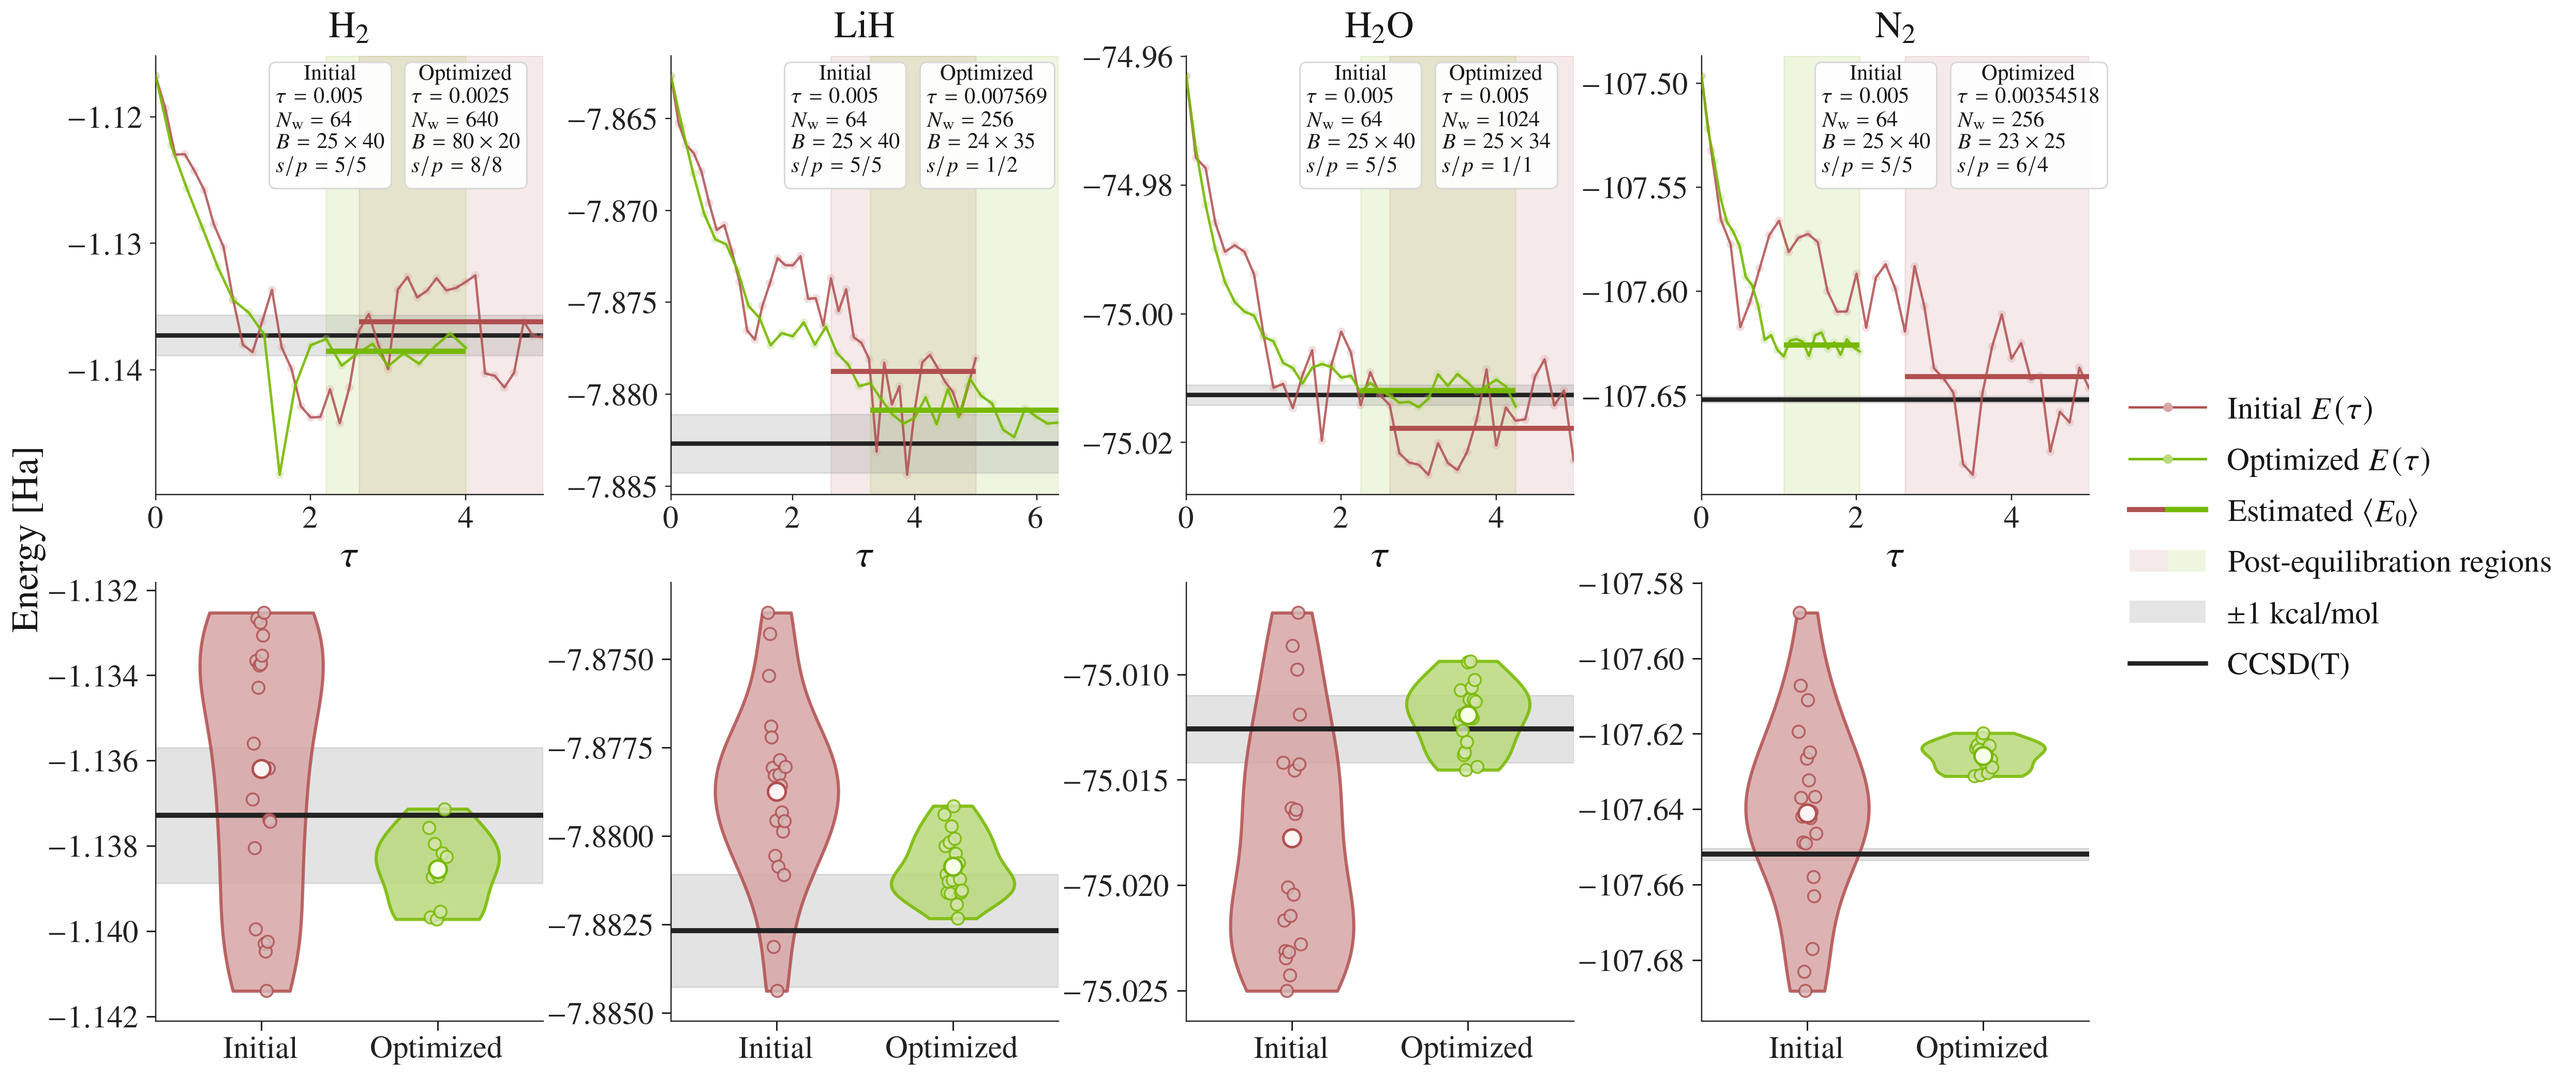
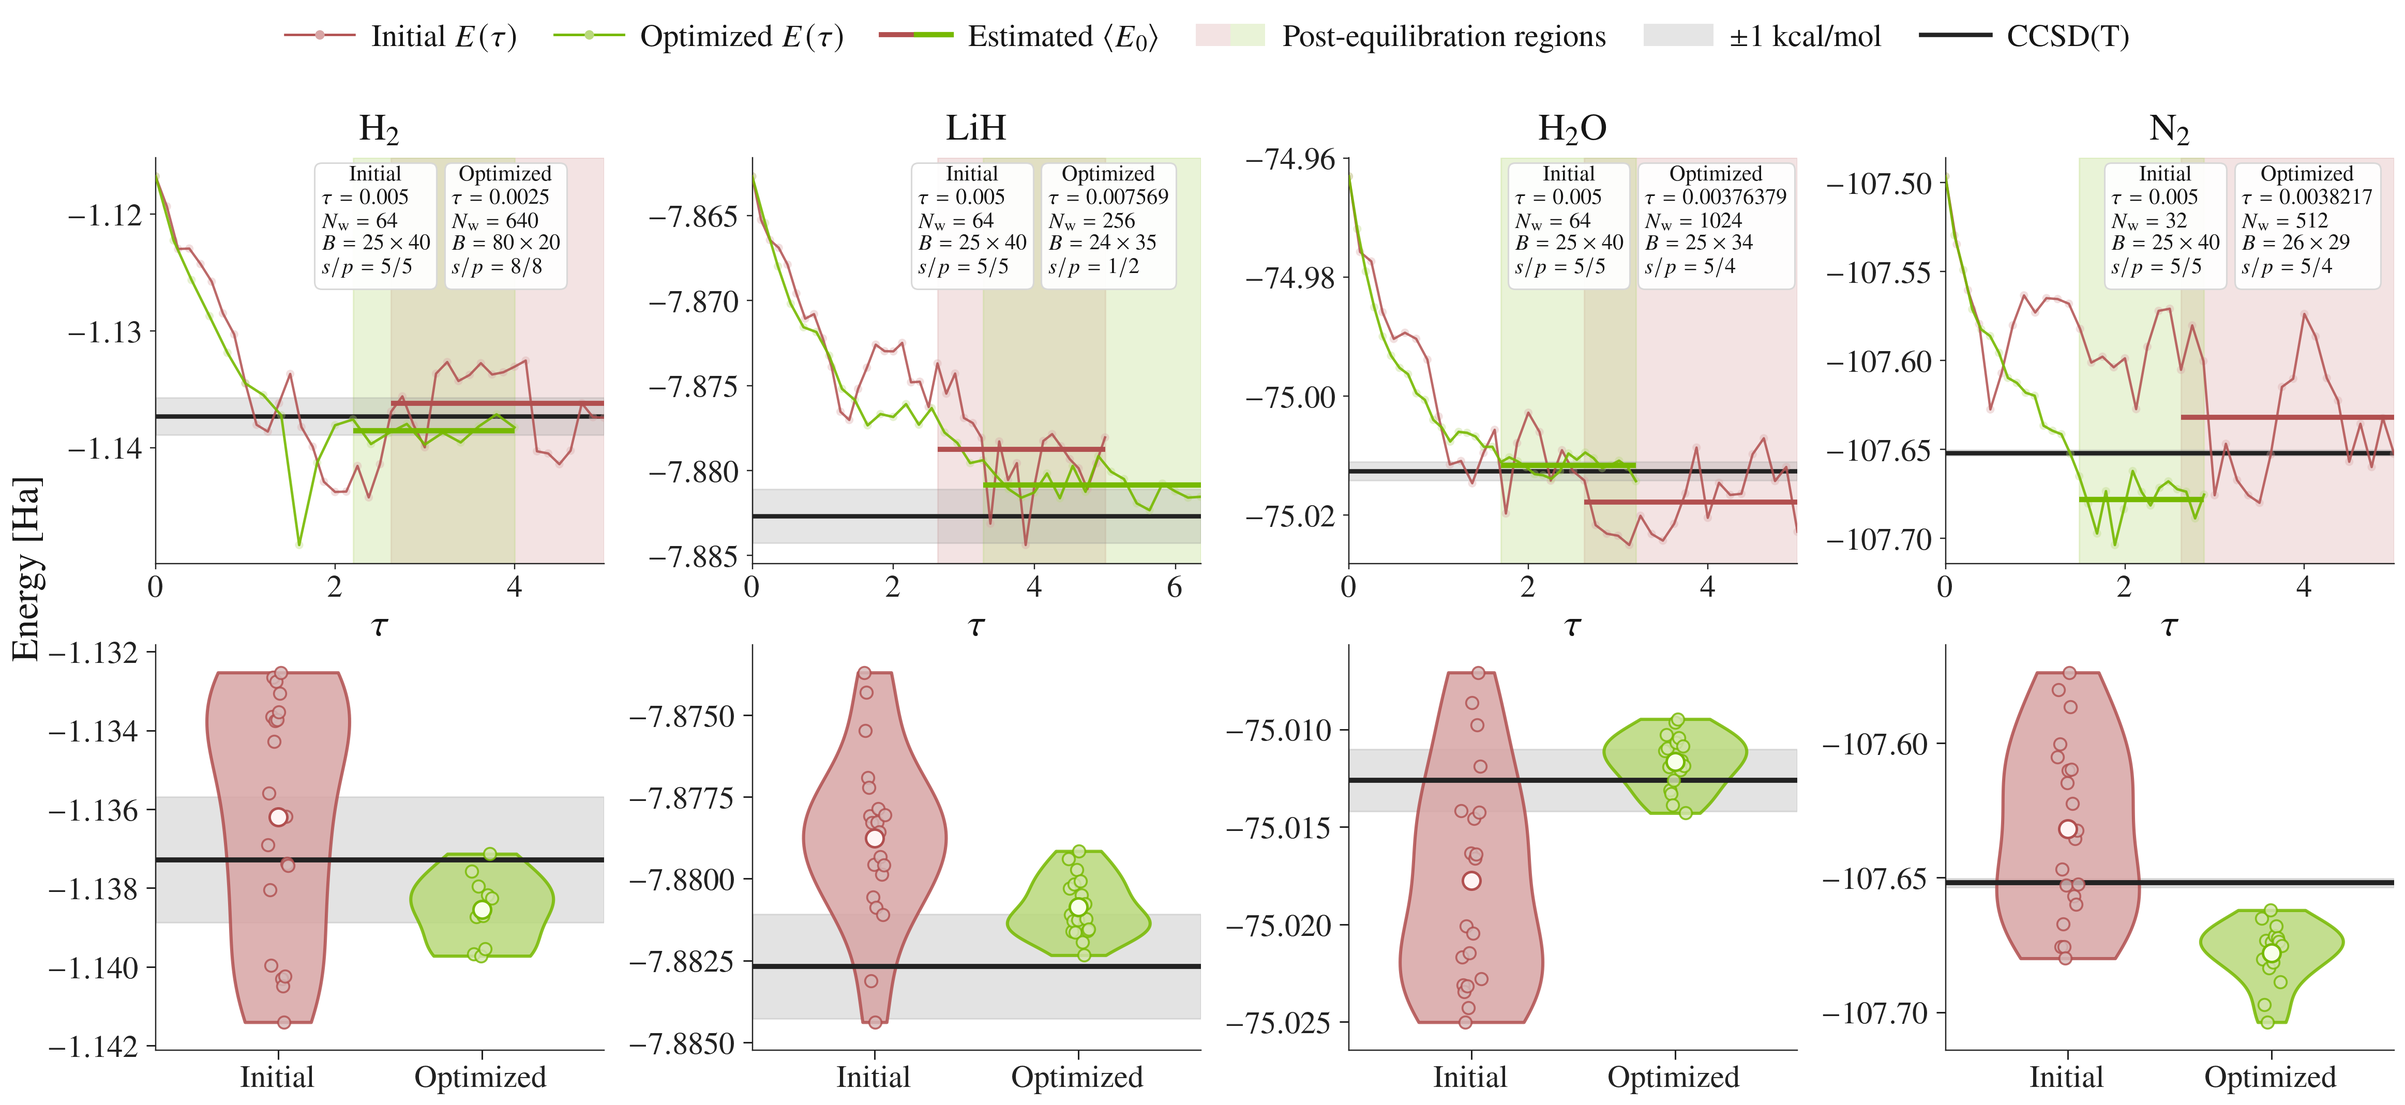
Polish AFQMC merged comparison figure

diff --git a/figs/afqmc/make_trace_violin_comparison_figure.py b/figs/afqmc/make_trace_violin_comparison_figure.py
@@ -99,8 +99,8 @@ def _plot_trace_axis(axis, record: TraceRecord):
         axis.axvspan(
             max(record.baseline_tail_start, x_min),
             baseline_x_max,
-            color=INITIAL_EDGE,
-            alpha=0.12,
+            color=INITIAL_FILL,
+            alpha=0.30,
             zorder=0,
         )
         axis.hlines(
@@ -116,8 +116,8 @@ def _plot_trace_axis(axis, record: TraceRecord):
         axis.axvspan(
             max(record.best_tail_start, x_min),
             best_x_max,
-            color=OPT_EDGE,
-            alpha=0.12,
+            color=OPT_FILL,
+            alpha=0.30,
             zorder=0,
         )
         axis.hlines(
@@ -147,7 +147,7 @@ def _plot_trace_axis(axis, record: TraceRecord):
     axis.set_title(system_label_tex(record.system), pad=12)
     axis.set_xlabel(record.x_label)
     axis.set_xlim(x_min, x_max)
-    _add_param_box(axis, 0.31, 0.97, "Initial", record.baseline_params)
+    _add_param_box(axis, 0.37, 0.97, "Initial", record.baseline_params)
     _add_param_box(axis, 0.66, 0.97, "Optimized", record.best_params)
 
 
@@ -239,8 +239,8 @@ def main():
         Line2D([0], [0], color=OPT_EDGE, linewidth=3.4),
     )
     post_eq_handle = (
-        Patch(facecolor=INITIAL_EDGE, alpha=0.12, edgecolor="none"),
-        Patch(facecolor=OPT_EDGE, alpha=0.12, edgecolor="none"),
+        Patch(facecolor=INITIAL_FILL, alpha=0.30, edgecolor="none"),
+        Patch(facecolor=OPT_FILL, alpha=0.30, edgecolor="none"),
     )
     legend_handles = [
         Line2D([0], [0], color=INITIAL_EDGE, linewidth=1.5, marker="o", markersize=6, markerfacecolor=INITIAL_FILL, markeredgewidth=0, label=r"Initial $E(\tau)$"),
@@ -261,18 +261,20 @@ def main():
     fig.legend(
         handles=legend_handles,
         labels=legend_labels,
-        loc="center left",
-        bbox_to_anchor=(0.865, 0.50),
+        loc="upper center",
+        bbox_to_anchor=(0.50, 0.975),
         frameon=False,
         handler_map={tuple: HandlerTuple(ndivide=None, pad=0.0)},
-        alignment="left",
-        handlelength=2.4,
-        handletextpad=0.7,
-        labelspacing=0.7,
+        alignment="center",
+        ncol=6,
+        columnspacing=1.15,
+        handlelength=2.2,
+        handletextpad=0.55,
+        labelspacing=0.6,
     )
 
     fig.text(0.018, 0.50, r"Energy [Ha]", rotation=90, va="center", ha="center")
-    fig.subplots_adjust(left=0.07, right=0.86, bottom=0.10, top=0.90, wspace=0.33, hspace=0.20)
+    fig.subplots_adjust(left=0.07, right=0.985, bottom=0.10, top=0.84, wspace=0.33, hspace=0.20)
     fig.savefig(OUTPUT_PDF, bbox_inches="tight")
     fig.savefig(OUTPUT_PNG, dpi=220, bbox_inches="tight")
     plt.close(fig)
